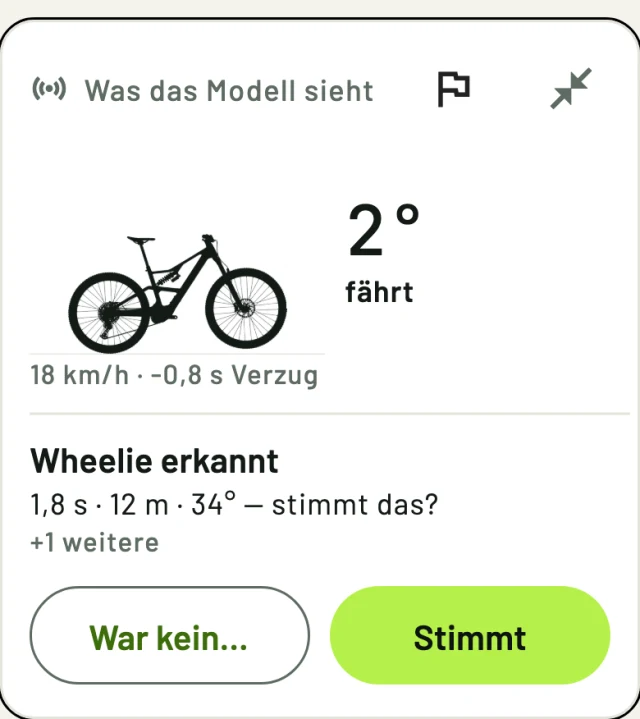
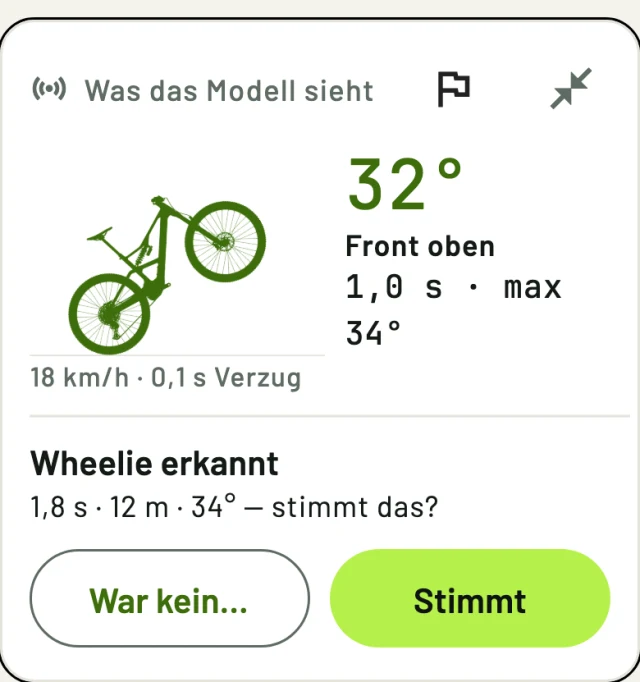
docs: localize README screenshots and expand the Garmin gallery (#619)
* docs: localize README screenshots and expand the Garmin gallery

* docs: show how the loop comparison uses the climbing limit

* docs: refer to your climbing limit in the loop comparison

diff --git a/README.en.md b/README.en.md
@@ -13,8 +13,8 @@ to plan your next loop.
 [**Garmin watch app**](#garmin)
 
 <p>
-  <img src="docs/readme/android.webp" alt="Android app showing map trails colored by difficulty" width="211">
-  <img src="docs/readme/web.webp" alt="Web app showing the Canadian Trail difficulty rating and elevation profile" width="540">
+  <img src="docs/readme/en/android.webp" alt="Android app showing map trails colored by difficulty" width="211">
+  <img src="docs/readme/en/web.webp" alt="Web app showing a trail difficulty rating and elevation profile" width="540">
 </p>
 
 *Android and web with demo data.*
@@ -40,7 +40,7 @@ to plan your next loop.
 Use the buddy chat to arrange a ride, agree on a meeting point, or ask
 where to start. Open the chat using the speech bubble next to the buddy’s name.
 
-<img src="docs/readme/chat.webp" alt="Buddy chat arranging a ride and a meeting point" width="211">
+<img src="docs/readme/en/chat.webp" alt="Buddy chat arranging a ride and a meeting point" width="610">
 
 ### Share trail conditions and reports
 
@@ -48,7 +48,7 @@ Rate a trail and add your take on its difficulty. If a tree is down after
 a storm or the trail has reopened, report it directly on the trail. Add a
 short note and a photo to show your buddies what to expect.
 
-<img src="docs/readme/report.webp" alt="Trail report with status options, a sample note, and a button to attach a photo" width="388">
+<img src="docs/readme/en/report.webp" alt="Trail report with status options, a sample note, and a button to attach a photo" width="388">
 
 ### Plan loops with MTB-specific routing
 
@@ -58,7 +58,16 @@ trails in your network. Descents are routed in the riding direction unless
 they are explicitly marked as two-way. Marked uphill trails and links can
 connect the other parts of the route.
 
-<img src="docs/readme/planner.webp" alt="Loop planner showing three trails on the map, a 12.5 km route, and alternatives on a time scale" width="228">
+<img src="docs/readme/en/planner.webp" alt="Loop planner showing four trails, a 13.2 km route, and alternatives on a time scale" width="445">
+
+#### Loops compared
+
+Open **Compare** in the suggested loop. The chart plots ride time against
+trail share. A ring around each point shows how much of your climbing
+limit the loop uses. Colour and shape show its hardest S grade.
+Show loops **above your limit** to see how much extra climbing they need.
+
+<img src="docs/readme/en/compare.webp" alt="Loop comparison chart showing ride time, trail share, climbing limit, and hardest S grade" width="540">
 
 ### Save maps and routing data for offline use
 
@@ -67,7 +76,7 @@ downloads elevation, places, and path data. The saved paths let you plan
 within the area without a signal. Overlapping areas share tiles, and later downloads fetch
 only missing data. Android can also download entire map regions.
 
-<img src="docs/readme/offline.webp" alt="Offline download preview with storage size, tiles, places, elevation, and paths" width="228">
+<img src="docs/readme/en/offline.webp" alt="Offline download preview with storage size, tiles, places, elevation, and paths" width="228">
 
 ## Android only
 
@@ -79,15 +88,21 @@ detection** under “About TrailBuddy” looks for wheelies, jumps, and stoppies
 during rides. Confirm or dismiss detected events in the live view.
 
 <p>
-  <img src="docs/readme/ride.webp" alt="Active GPS ride recording with a track on the Android map" width="211">
-  <img src="docs/readme/airtime.webp" alt="Live sensor view with a simulated wheelie and buttons to confirm or dismiss it" width="260">
+  <img src="docs/readme/en/ride.webp" alt="Active GPS ride recording with a track on the Android map" width="211">
+  <img src="docs/readme/en/airtime.webp" alt="Live sensor view with a simulated wheelie and buttons to confirm or dismiss it" width="260">
 </p>
 
 *Ride recording and sensor view with simulated measurements.*
 
 ## Garmin
 
-<img src="garmin/shots/fenix5/eng/trail.png" alt="TrailBuddy on a fēnix 5 showing the route and remaining trail distance" width="176">
+<p>
+  <img src="garmin/shots/fenix5/eng/trail.png" alt="Route and remaining trail distance on the fēnix 5" width="144">
+  <img src="garmin/shots/fenix5/eng/abseits.png" alt="Off-route warning showing distance to the route" width="144">
+  <img src="garmin/shots/fenix5/eng/aufnahme.png" alt="Active ride recording on the Garmin watch" width="144">
+</p>
+
+[All Garmin screens in English](garmin/shots/fenix5/eng).
 
 The Connect IQ app displays a route sent from your Android phone and vibrates
 when you leave the route. It can record a ride on its own and later transfer

diff --git a/README.md b/README.md
@@ -62,6 +62,16 @@ Uphill-Trails und Verbindungen kommen als Zubringer infrage.
 
 <img src="docs/readme/planner.webp" alt="Rundenplaner mit drei Trails auf der Karte, 12,5 Kilometern Strecke und alternativen Runden auf der Zeitskala" width="228">
 
+#### Runden im Vergleich
+
+Öffne **Vergleichen** im Routenvorschlag. Das Diagramm stellt Fahrzeit und
+Trail-Anteil jeder Runde gegenüber. Der Ring am Punkt zeigt, wie viel vom
+eingestellten Höhenmeterlimit die Runde ausschöpft. Farbe und Form zeigen
+den höchsten S-Grad. Blende auch Runden **über deinem Limit** ein, um zu
+sehen, wie viele Höhenmeter sie zusätzlich brauchen.
+
+<img src="docs/readme/compare.webp" alt="Vergleichsansicht mit Fahrzeit, Trail-Anteil, Höhenmeterlimit und höchstem S-Grad" width="540">
+
 ### Offline-Karte und Routing zusammen speichern
 
 Zeichne den gewünschten Bereich auf der Karte ein. Wo verfügbar, lädt
@@ -92,7 +102,13 @@ Live-Ansicht kannst du erkannte Ereignisse bestätigen oder verwerfen.
 
 ## Garmin
 
-<img src="garmin/shots/fenix5/deu/trail.png" alt="TrailBuddy auf der fēnix 5 mit Routenlinie und verbleibender Trail-Strecke" width="176">
+<p>
+  <img src="garmin/shots/fenix5/deu/trail.png" alt="Route und verbleibende Trail-Strecke auf der fēnix 5" width="144">
+  <img src="garmin/shots/fenix5/deu/abseits.png" alt="Abseitswarnung mit Abstand zur Route" width="144">
+  <img src="garmin/shots/fenix5/deu/aufnahme.png" alt="Laufende Aufzeichnung auf der Garmin-Uhr" width="144">
+</p>
+
+[Alle Garmin-Ansichten auf Deutsch](garmin/shots/fenix5/deu).
 
 Die Connect-IQ-App zeigt die vom Android-Handy gesendete Route an und
 vibriert beim Verlassen der Route. Sie kann eine Fahrt auch ohne Handy
